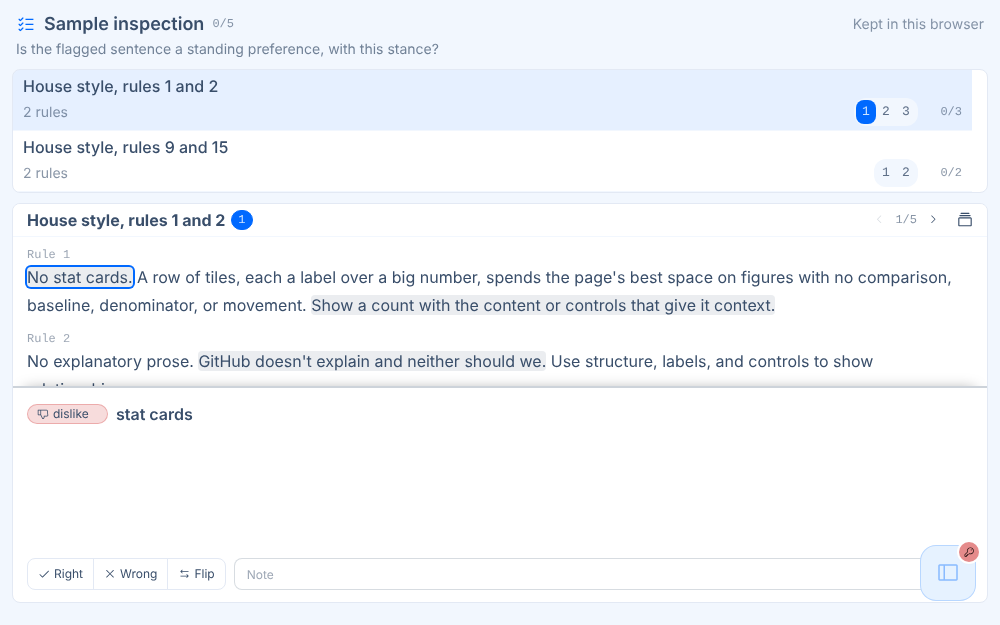
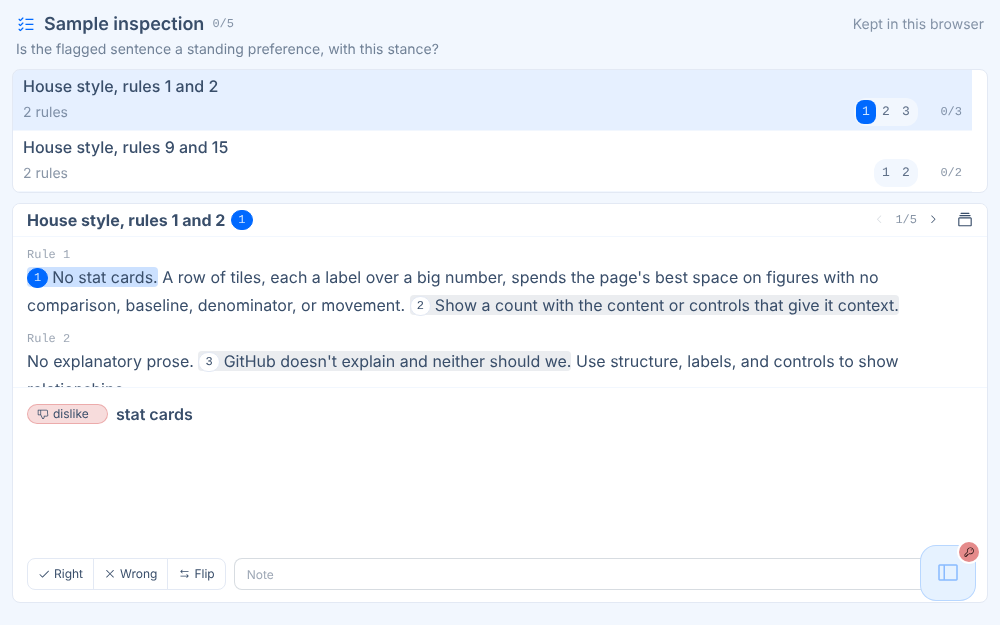
Inspection: a plain seam over the output, and numbered, tinted passages
At the owner's ask, the output panel drops the 2px border and the shadow
for the seam the linked-swiper card's head already draws, border-t
border-base-200. The statement stays semibold. On a narrow panel the
stance tag now starts its first line, so a wrapped statement returns to
the left edge at 390px; a panel 32rem or wider hangs it beside the tag as
before (a container query on the panel).

The current output's passages lose their blue outline for a soft primary
fill, bg-primary/20 as passage-reader fills its current sentence's; the
other outputs' passages keep a quieter neutral fill. Each passage opens
with its output's number, drawn as the card head's output pill: primary
for the card's own output, else in its verdict's colours. Anchors of one
output that only white space parts read as one passage with one number.
Hovering a passage deepens its fill and its counterparts', rings its tab,
and opens a title-tip naming the output's number, stance and opening
words. A tap still moves to the output, and opens no tip.

Claude-Session: https://claude.ai/code/session_01Ug8CXB6PirpgRbETf2yWnc

Changed region(s): [[0.031, 0.5472, 0.961, 0.6384], [0.0, 0.4256, 0.961, 0.5168]]

diff --git a/pages/inspection.html b/pages/inspection.html
@@ -21,8 +21,10 @@
   places); the card's door opens the same cards as a deck. A card is the run's
   input, scrolled to the passage its output rests on, over the output and its
   verdict. A move to another output of the run stays on the card: the input
-  glides to that output's passage. The other outputs' passages stay marked, and
-  a tap on one goes to it; a passage and its tab light together (rule 16).
+  glides to that output's passage. Every passage opens with its output's
+  number, as on the output's tab; the card's own are tinted primary, the others
+  quieter, and a tap on one goes to it. A passage and its tab light together
+  (rule 16).
 -->
 <script type="module">
   const use = new URLSearchParams(location.search).get('use');
@@ -91,10 +93,12 @@
   };
   // A tag's colour: its own tone, else its stance's; any other tag is neutral.
   const STANCE = { like: 'success', dislike: 'error' };
-  const OPEN_MARK = 'bg-base-content/10';
-  const MARKS = [OPEN_MARK, ...Object.values(TONE).map(t => t.mark)];
-  // The card's own passage, and a passage or tab under the pointer.
-  const CUR = 'ring-2 ring-primary';
+  // A passage's fill: the card's own output's in primary, the others' quieter;
+  // a passage under the pointer, and its counterparts, deepen (data-hot).
+  const FILL = { cur: 'bg-primary/20 data-hot:bg-primary/35', other: 'bg-base-content/10 data-hot:bg-base-content/20' };
+  // A passage's number: the card head's output pill (linked-swiper).
+  const BADGE = 'badge badge-sm mr-1 px-1.5 font-mono font-medium tabular-nums select-none';
+  // A tab under the pointer, or whose passage is.
   const HOT = ['ring-1', 'ring-primary'];
 
   // ── the payload ─────────────────────────────────────────────────────────
@@ -111,10 +115,17 @@
     for (const r of p.runs) {
       r.blockOf = Object.fromEntries(r.source.blocks.map(b => [b.id, b]));
       for (const o of r.outputs) {
+        // An output's anchors in one block that only white space parts read
+        // as one passage, with one number.
         o.spans = (o.anchors || (o.anchor ? [o.anchor] : [])).flatMap(a => {
           const b = r.blockOf[a.block];
           return b && Number.isInteger(a.start) && Number.isInteger(a.end) ? [{ block: a.block, at: [u16(b.text, a.start), u16(b.text, a.end)] }] : [];
-        });
+        }).reduce((acc, s) => {
+          const q = acc[acc.length - 1];
+          if (q?.block === s.block && s.at[0] >= q.at[0] && !/\S/.test(r.blockOf[s.block].text.slice(q.at[1], s.at[0]))) q.at[1] = Math.max(q.at[1], s.at[1]);
+          else acc.push(s);
+          return acc;
+        }, []);
       }
     }
     p.verdictOf = Object.fromEntries((p.verdicts || []).map(v => [v.verdict, v]));
@@ -177,7 +188,13 @@
   const runOf = id => P.runs.find(r => r.id === id);
   const outOf = (run, out) => runOf(run)?.outputs.find(o => o.id === out) || null;
   const tone = v => TONE[P.verdictOf[v]?.tone] || TONE.neutral;
-  const markClass = (run, out) => { const v = stateOf(keyOf(run, out)).verdict; return v ? tone(v).mark : OPEN_MARK; };
+  // A badge's colours: primary on the card's own output, as its tab and the
+  // head's pill are, else its verdict's, as the stance tag takes its stance's.
+  const badgeTone = (run, out, own) => {
+    if (own) return 'badge-primary';
+    const v = stateOf(keyOf(run, out)).verdict;
+    return v ? tone(v).tag : TONE.neutral.tag;
+  };
   const doneOf = r => r.outputs.filter(o => stateOf(keyOf(r.id, o.id)).verdict).length;
   const countOf = r => doneOf(r) + '/' + r.outputs.length;
   let swiper = null;
@@ -192,10 +209,20 @@
         <span data-count class="min-w-[5ch] shrink-0 text-right font-mono text-xs tabular-nums text-base-content/60">${countOf(r)}</span></div></div>`;
   }
 
+  // The tag starts the statement's first line, so a narrow panel's wrapped
+  // lines return to its left edge; a wide one hangs the statement beside it.
   function tagHTML(o, big) {
     if (!o.tag) return '';
     const t = P.tagOf[o.tag] || { label: o.tag }, c = (TONE[t.tone || STANCE[o.tag]] || TONE.neutral).tag;
-    return `<span class="badge badge-sm ${c} ${big ? 'mt-1.5' : 'mt-1'} shrink-0 justify-start gap-1" style="min-width:calc(${P.tagCh}ch + 1.75rem)">${t.icon ? `<i class="ph ${esc(t.icon)}"></i>` : ''}${esc(t.label || o.tag)}</span>`;
+    return `<span class="badge badge-sm ${c} mr-2 @lg:mr-0 ${big ? '@lg:mt-1.5' : '@lg:mt-1'} shrink-0 justify-start gap-1 font-normal" style="min-width:calc(${P.tagCh}ch + 1.75rem)">${t.icon ? `<i class="ph ${esc(t.icon)}"></i>` : ''}${esc(t.label || o.tag)}</span>`;
+  }
+
+  // A passage's tip: its outputs' numbers, stances and first words.
+  const opening = s => s.length > 72 ? s.slice(0, 72).replace(/\s+\S*$/, '') + '…' : s;
+  function tipOf(r, on) {
+    const name = o => [r.outputs.indexOf(o) + 1, o.tag && (P.tagOf[o.tag]?.label || o.tag)].filter(Boolean).join(' · ');
+    if (on.length === 1) return ` data-title-tip-lead="Output ${esc(name(on[0]))}" data-title-tip="${esc(opening(on[0].text))}"`;
+    return ` data-title-tip="${esc(on.map(o => `${name(o)}: ${opening(o.text)}`).join('\n'))}"`;
   }
 
   function controls(r, o) {
@@ -211,9 +238,10 @@
   }
 
   // A block's text with each anchored span marked; overlapping spans split
-  // into runs that carry every output resting on them. The card's own output
-  // leads a run it rests on, and that run is ringed; its first anchor's
-  // opening run is data-first, where place() scrolls.
+  // into runs that carry every output resting on them. A passage opens with
+  // its output's number. A run the card's own output rests on takes the
+  // primary fill; its first anchor's opening run is data-first, where
+  // place() scrolls.
   function marked(r, b, own) {
     const spans = r.outputs.flatMap(o => o.spans.filter(s => s.block === b.id).map(s => ({ o, at: s.at })));
     const first = own?.spans[0];
@@ -223,10 +251,12 @@
       const [a, z] = [cuts[i], cuts[i + 1]], on = [...new Set(spans.filter(s => s.at[0] <= a && s.at[1] >= z).map(s => s.o))];
       const t = esc(b.text.slice(a, z));
       if (!on.length) { h += t; continue; }
-      const mine = !!own && on.includes(own), lead = mine ? own : on[0];
+      const mine = !!own && on.includes(own);
       const top = mine && first.block === b.id && first.at[0] === a;
-      h += `<mark data-run="${esc(r.id)}" data-outs="${esc(on.map(o => o.id).join(' '))}" data-lead="${esc(lead.id)}"${mine ? ' data-cur' : ''}${top ? ' data-first' : ''}`
-        + ` class="cursor-pointer rounded-sm text-inherit box-decoration-clone ${markClass(r.id, lead.id)}${mine ? ' ' + CUR : ''}">${t}</mark>`;
+      const nums = spans.filter(s => s.at[0] === a).map(({ o }) =>
+        `<span data-badge="${esc(o.id)}" class="${BADGE} ${badgeTone(r.id, o.id, o === own)}">${r.outputs.indexOf(o) + 1}</span>`).join('');
+      h += `<mark data-run="${esc(r.id)}" data-outs="${esc(on.map(o => o.id).join(' '))}"${mine ? ' data-cur' : ''}${top ? ' data-first' : ''}${tipOf(r, on)} data-title-tip-bare tabindex="-1"`
+        + ` class="${!mine || on.length > 1 ? 'cursor-pointer ' : ''}rounded-sm text-inherit box-decoration-clone ${mine ? FILL.cur : FILL.other}">${nums}${t}</mark>`;
     }
     return h;
   }
@@ -243,17 +273,20 @@
         <h3 class="font-mono text-xs text-base-content/50">${esc(b.label || b.id)}</h3>
         <p class="whitespace-pre-wrap [overflow-wrap:anywhere]">${marked(r, b, o)}</p>
       </section>`).join('');
-    const panel = `flex-none border-t-2 border-base-content/25 shadow-[0_-8px_14px_-12px_rgb(0_0_0/0.4)] ${pad} py-3`;
+    // The seam is the card head's (linked-swiper), on the panel's top edge.
+    const panel = `flex-none border-t border-base-200 ${pad} py-3`;
     const out = !o ? `<p class="${panel} text-base-content/60">No outputs.</p>` : `
-      <div data-item="${esc(keyOf(r.id, o.id))}" data-out="${esc(o.id)}" class="${panel} flex flex-col gap-2.5">
+      <div data-item="${esc(keyOf(r.id, o.id))}" data-out="${esc(o.id)}" class="${panel} @container flex flex-col gap-2.5">
         <div data-words class="flex h-[calc(5lh+0.5rem)] flex-col gap-2 overflow-y-auto overscroll-contain [scrollbar-gutter:stable] data-more:mask-b-from-75% max-sm:h-[7lh]">
-          <div class="flex items-start gap-2">${tagHTML(o, big)}<span class="min-w-0 font-semibold">${esc(o.text)}</span></div>
+          <p class="font-semibold @lg:flex @lg:items-start @lg:gap-2">${tagHTML(o, big)}<span class="@lg:min-w-0">${esc(o.text)}</span></p>
           ${o.note ? `<p class="text-base-content/70">${esc(o.note)}</p>` : ''}
         </div>
         ${controls(r, o)}
       </div>`;
+    // A tap in the input moves to an output, whose words the panel then
+    // shows, so it opens no tip there; a hover does.
     return `<div data-scope="${esc(r.id)}" data-flag="${esc(o?.id || '')}" class="flex h-full min-h-0 flex-col ${big ? 'text-xl leading-8' : 'text-base leading-7'}">
-      <div data-pane="in" class="min-h-0 flex-1 overflow-y-auto overscroll-contain ${pad} py-1 [scrollbar-gutter:stable]">${blocks}</div>${out}</div>`;
+      <div data-pane="in" data-title-tip-tap="none" class="min-h-0 flex-1 overflow-y-auto overscroll-contain ${pad} py-1 [scrollbar-gutter:stable]">${blocks}</div>${out}</div>`;
   }
 
   // The output's passage a third of the way down the input, once the card
@@ -285,8 +318,10 @@
   document.addEventListener('scroll', e => { if (e.target.matches?.('[data-words]')) more(e.target); }, true);
 
   // ── lighting counterparts (rule 16) ─────────────────────────────────────
-  // A passage and its output's tab in the list light together.
+  // A passage, its output's other passages and its tab in the list light
+  // together: a passage's fill deepens, a tab is ringed.
   let hot = [], hotKey = '';
+  const light = (el, on) => { if (el.matches('mark')) el.toggleAttribute('data-hot', on); else for (const c of HOT) el.classList.toggle(c, on); };
   document.addEventListener('pointerover', e => {
     if (!P) return;
     const t = e.target instanceof Element ? e.target : null;
@@ -294,15 +329,16 @@
     const run = m ? m.dataset.run : tab ? tab.closest('[data-run]')?.dataset.run : '';
     const outs = run ? (m ? m.dataset.outs.split(' ') : [tab.dataset.lsSub]) : [];
     const k = run ? run + '|' + outs.join(' ') : '';
-    if (k === hotKey) return;
-    for (const el of hot) el.classList.remove(...HOT);
+    // A card drawn again under a still pointer holds new passages to light.
+    if (k === hotKey && hot.every(el => el.isConnected)) return;
+    for (const el of hot) light(el, false);
     hotKey = k; hot = [];
     if (!run) return;
     const R = CSS.escape(run);
-    for (const x of document.querySelectorAll(`mark[data-run="${R}"]:not([data-cur])`))
+    for (const x of document.querySelectorAll(`mark[data-run="${R}"]`))
       if (x.dataset.outs.split(' ').some(o => outs.includes(o))) hot.push(x);
     for (const o of outs) hot.push(...$('list').querySelectorAll(`[data-run="${R}"] [data-ls-sub="${CSS.escape(o)}"]`));
-    for (const el of hot) el.classList.add(...HOT);
+    for (const el of hot) light(el, true);
   });
 
   // Where a tap on a passage goes: its first output, or on the card's own
@@ -324,11 +360,8 @@
         if (on) b.classList.add(tone(b.dataset.verdict).btn);
       }
     }
-    const mc = markClass(run, out);
-    for (const m of document.querySelectorAll(`mark[data-run="${CSS.escape(run)}"][data-lead="${CSS.escape(out)}"]`)) {
-      m.classList.remove(...MARKS);
-      m.classList.add(mc);
-    }
+    for (const b of document.querySelectorAll(`mark[data-run="${CSS.escape(run)}"] [data-badge="${CSS.escape(out)}"]`))
+      b.className = BADGE + ' ' + badgeTone(run, out, b.closest('[data-flag]')?.dataset.flag === out);
     const count = $('list')?.querySelector(`[data-run="${CSS.escape(run)}"] [data-count]`);
     if (count) count.textContent = countOf(runOf(run));
     swiper?.tabs(run);
@@ -451,7 +484,9 @@
         paintItem(run, out);
         return;
       }
-      const m = e.target.closest('mark[data-outs]'), to = m && nextOut(m);
+      // A badge goes to its own output; the rest of a passage as nextOut says.
+      const m = e.target.closest('mark[data-outs]'), b = m && e.target.closest('[data-badge]');
+      const to = m && (b && b.dataset.badge !== m.closest('[data-flag]')?.dataset.flag ? b.dataset.badge : nextOut(m));
       if (to) go(m.dataset.run, to, !!deck?.el.contains(m));
     });
 
